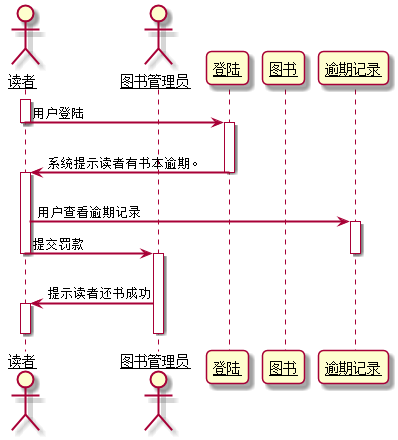
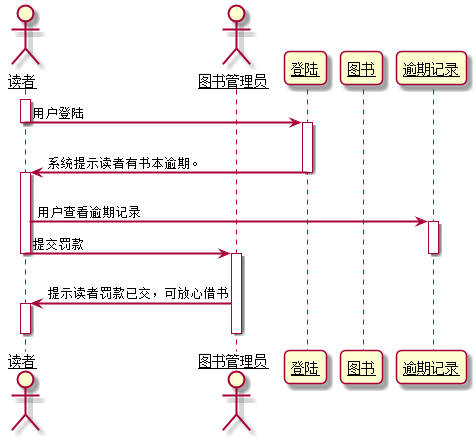
chengrui

diff --git a/test4/README.md b/test4/README.md
@@ -58,8 +58,10 @@ deactivate a
 ![BorrowBook.png](BorrowBook.png)
 
 ## 1.3. 借书用例顺序图说明
-ABCDE....
-
+图书管理员首先登陆系统，验证读者的信息（主要是否有逾期，所剩的借书量）。<br>
+验证成功后,进行查找图书（书名，作者，ISB来进行查找），<br>
+系统显示图书的信息，点击借书，系统生成借书记录，并更新图书信息以及读者信息。
+管理员打印借书记录，并提示读者借书成功。
 ***
 
 ## 2. 还书用例
@@ -106,7 +108,9 @@ end
 ![ReturnBooks.png](ReturnBooks.png)
 
 ## 2.3. 还书用例顺序图说明
-ABCDE...
+读者交还书本给图书管理员，管理员登陆系统，验证读者的信息（主要是否有逾期，所剩的借书量）。<br>
+验证成功后,显示图书信息（书名，作者，ISB），提示读者借书成功。<br>
+如果有逾期，管理员登记逾期记录，等待读者进行罚款。
 ***
 ## 3. 续借用例
 ## 3.1. 续借用例PlantUML源码
@@ -160,7 +164,10 @@ end
 ![Reborrowbooks.png](Reborrowbooks.png)
 
 ## 3.3. 续借用例顺序图说明
-ABCDE...
+图书管理员首先登陆系统，验证读者的信息（主要是否有逾期，所剩的借书量）。<br>
+验证成功后,系统生成借书记录，并读者信息。
+管理员打印借书记录，并提示读者借书成功。
+如果有逾期，管理员登记逾期记录，等待读者进行罚款。
 ***
 ## 4. 罚款用例
 ## 4.1. 罚款用例PlantUML源码
@@ -192,7 +199,7 @@ deactivate 读者
 deactivate c
 activate 图书管理员
 deactivate b
-图书管理员 -> 读者:提示读者还书成功
+图书管理员 -> 读者:提示读者罚款已交，可放心借书。
 activate 读者
 deactivate 图书管理员
 deactivate 读者
@@ -203,7 +210,8 @@ deactivate 读者
 ![Amerce.png](Amerce.png)
 
 ## 4.3. 罚款用例顺序图说明
-ABCDE...
+读者登陆系统，系统提示读者有书本逾期，用户查看逾期记录，提交罚款。<br>
+管理员收到罚款，提示读者罚款已交，可放心借书。
 ***
 ## 5. 预定图书用例
 ## 5.1. 预定图书用例PlantUML源码
@@ -251,7 +259,10 @@ deactivate a
 ![Prelendingbooks.png](Prelendingbooks.png)
 
 ## 5.3. 预定图书用例顺序图说明
-ABCDE...
+图书管理员首先登陆系统，验证读者的信息（主要是否有逾期，所剩的借书量）。<br>
+验证成功后,进行查找图书（书名，作者，ISB来进行查找），<br>
+系统显示图书的信息（书名，作者，ISB），并更新读者信息。
+管理员提示读者预定成功。
 ***
 ## 6. 取消预定用例
 ## 6.1. 取消预定用例PlantUML源码
@@ -299,7 +310,10 @@ deactivate a
 ![CancelBooksReservation.png](CancelBooksReservation.png)
 
 ## 6.3. 取消预定用例顺序图说明
-ABCDE...
+图书管理员首先登陆系统，验证读者的信息（主要是否有逾期，所剩的借书量）。<br>
+验证成功后,读取读者预定信息，进行查找图书（书名，作者，ISB来进行查找），<br>
+系统显示图书的信息（书名，作者，ISB），并更新图书信息以及读者信息。
+管理员提示读者预定已取消。
 ***
 ## 7. 借书卡挂失用例
 ## 7.1. 借书卡挂失PlantUML源码
@@ -336,7 +350,9 @@ deactivate a
 ![LossofLibraryCard.png](LossofLibraryCard.png)
 
 ## 7.3. 借书卡挂失用例顺序图说明
-ABCDE...
+图书管理员首先登陆系统，验证读者的信息（主要是否有逾期，所剩的借书量）。<br>
+验证成功后,进行借书卡挂失（姓名，借书卡号等），登记挂失记录。<br>
+管理员提示读者挂失成功。
 ***
 ## 8. 取消挂失用例
 ## 8.1. 取消挂失PlantUML源码
@@ -373,5 +389,7 @@ deactivate a
 ![CancelLossReport.png](CancelLossReport.png)
 
 ## 8.3. 取消挂失用例顺序图说明
-ABCDE...
+图书管理员首先登陆系统，验证读者的信息（主要是否有逾期，所剩的借书量）。<br>
+验证成功后,进行借书卡挂失（姓名，借书卡号等），取消挂失记录。<br>
+管理员提示读者挂失已取消。
 ***
